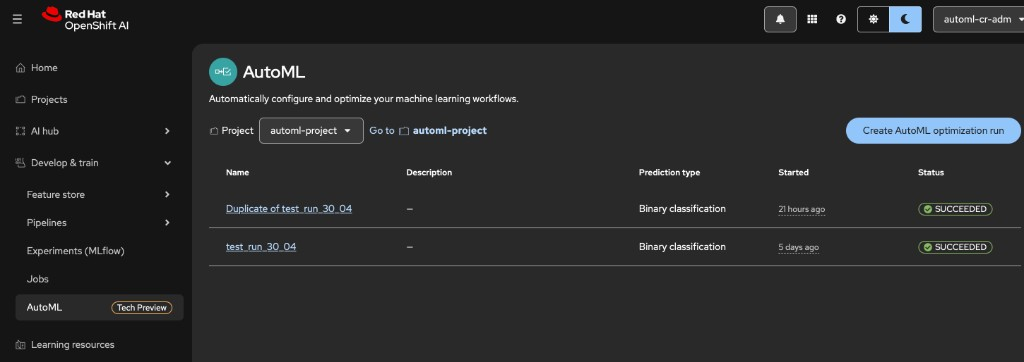
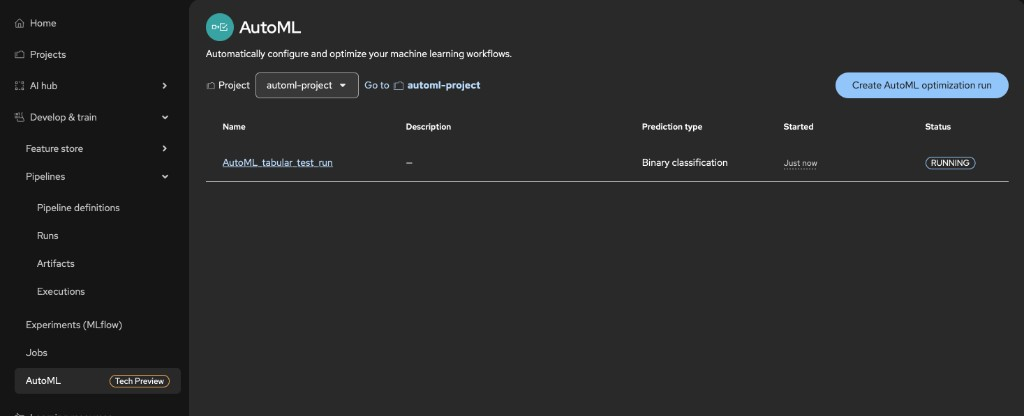
updated screens

diff --git a/examples/automl/churn_prediction_tutorial.md b/examples/automl/churn_prediction_tutorial.md
@@ -111,18 +111,20 @@ If you run the [optional pipeline flow](#optional-run-automl-via-pipeline-defini
 
 **Step ① — AutoML navigation and Create AutoML optimization run**
 
-![AutoML — Develop & train → AutoML → Create AutoML optimization run](images/automl_ui_create_optimization_run.png)
+![AutoML — Develop & train → AutoML: project selector, optimization runs table, and Create AutoML optimization run](images/automl_ui_create_optimization_run.png)
 
-**Step ③ — Training data** — On the data step of the wizard (before configuration), attach the **training data** S3 connection and either **Upload file** or **select a file from the bucket**, as in step **③** in the table above.
+**Steps ③–⑥ — Training data, prediction type, label column, top models, and Create run**
 
-**Steps ④–⑥ — Prediction type, label column, top models, and Create run**
+Your UI may split **Documents** (data) and **Configure details** across steps or show them side by side. In the example below, the left **Documents** panel covers step **③**: pick the **training data** S3 connection and either **Upload file** or **Select file from bucket**. The right **Configure details** panel covers steps **④–⑤**: **Prediction type**, **Label column**, and **Top models to consider**.
 
-![AutoML — Binary classification, label column, and top models to consider](images/automl_ui_configure_run_binary_classification.png)
+![AutoML — Documents (S3 connection, upload or bucket file) and Configure details (Binary classification, label column, top models)](images/automl_ui_configure_run_binary_classification.png)
 
-Parameters on this screen:
+Parameters on this screen (left **Documents**, right **Configure details**):
 
 | UI control | What it does |
 |------------|----------------|
+| **S3 connection** | Select the **training data** connection you created in [Create the S3 connections](#create-the-s3-connections). Use **Add new connection** if you need another bucket profile. |
+| **Select file from bucket** / **Upload file** | Either pick an object already in the bucket ([optional upload](#upload-the-training-dataset-to-s3)) or **Upload file** and choose the CSV from your machine (for example [WA_FnUseC_TelcoCustomerChurn.csv](data/churn/input_data/WA_FnUseC_TelcoCustomerChurn.csv)). |
 | **Prediction type** (task cards) | Chooses the learning problem. **Binary classification** — two classes (e.g. Yes/No). **Multiclass classification** — more than two discrete classes. **Regression** — a numeric target. **Time series forecasting** — sequential data with a time axis. For **Telco Customer Churn**, use **Binary classification** because **Churn** has two values. |
 | **Label column** | Required — the column to predict (the **target**). For this tutorial, select **Churn**. |
 | **Top models to consider** | How many of the strongest candidate models AutoML advances for full refit and the leaderboard (use **−** / **+** to change the number). A smaller value finishes sooner but explores fewer models; a larger value explores more at higher cost. |